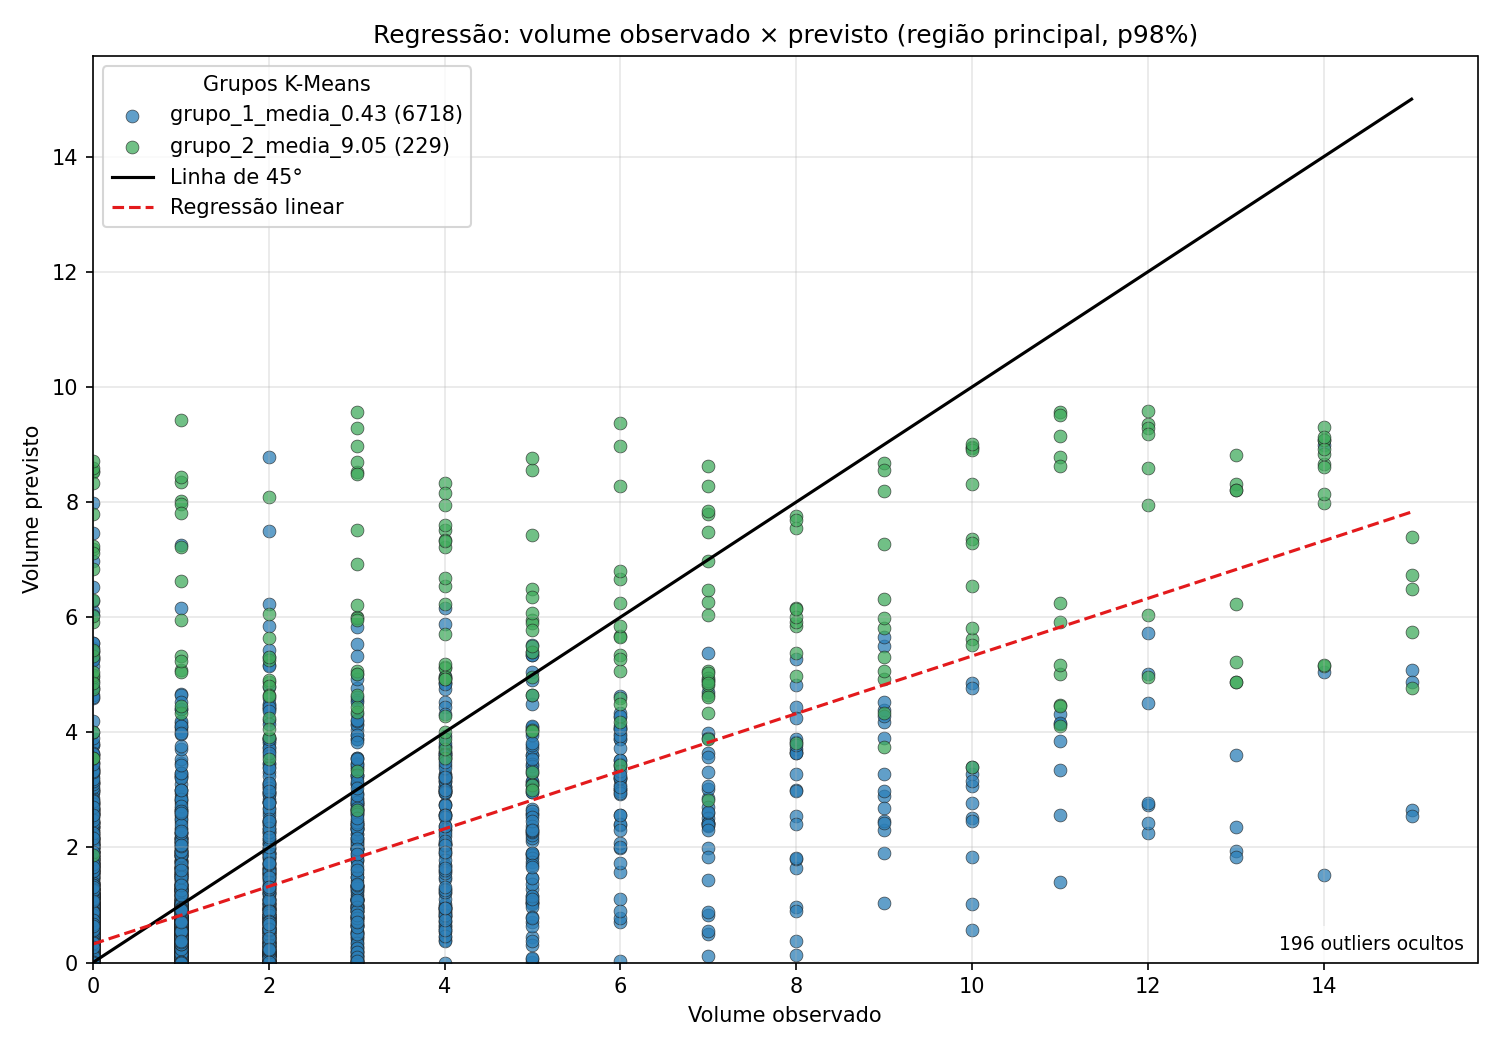
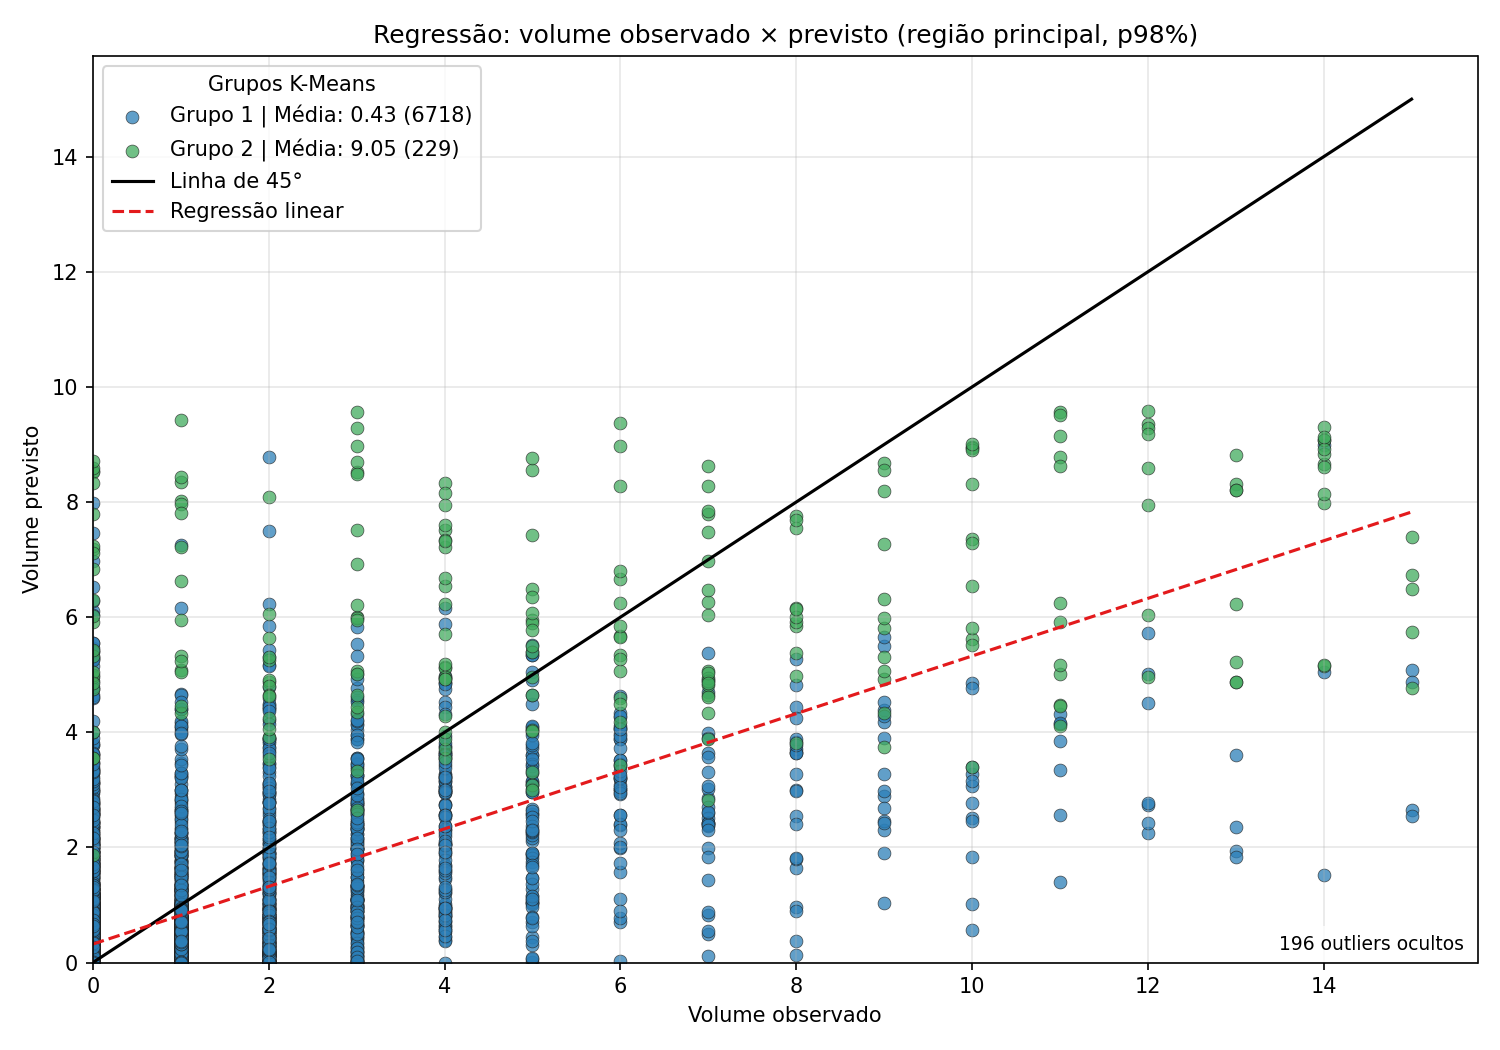
Atualizar grafico

Changed region(s): [[0.0613, 0.061, 0.3373, 0.2438]]

diff --git a/ml/classification.py b/ml/classification.py
@@ -47,7 +47,7 @@ def treinar_classificador(
     cluster_ids = model.fit_predict(componentes)
     means = pd.Series(alvo.to_numpy()).groupby(cluster_ids).mean().sort_values()
     labels = {
-        int(cluster_id): f"grupo_{position + 1}_media_{mean:.2f}"
+        int(cluster_id): f"Grupo {position + 1} | Média: {mean:.2f}"
         for position, (cluster_id, mean) in enumerate(means.items())
     }
     report = {
